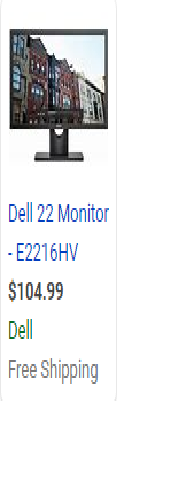
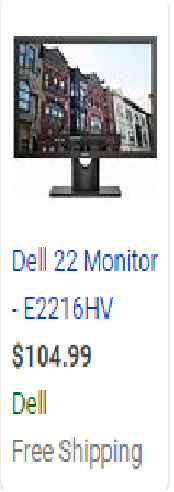
--10-24-19-- After school update 1.0

Changed region(s): [[0.0287, 0.061, 0.9195, 0.4573], [0.0287, 0.4878, 0.9195, 0.8537], [0.0575, 0.8841, 0.8333, 0.9756]]

diff --git a/lcd.html b/lcd.html
@@ -10,25 +10,31 @@
 
 <body>
   <div id="container">
-    <div id="header"><img src="images/pcmonitor.jpg" height="250px" width="1000px"/></div>
+    <header class="pageTop">
+      <h1>LCD Monitors</h1>
+      <p> LCD Monitor Information</p>
+    </header>
     <div class="navbar">
       <a href="index.html">Home</a>
-      <a href="#">Dead link</a>
       <div class="dropdown">
         <button class="dropbutton">Different Monitors
           <i class="fa fa-caret-down"></i>
         </button>
         <div class="dropdowncontent">
-          <a href="Article1.html">Article 1</a>
-          <a href="#">Aritcle 2</a>
-          <a href="#">Article 3</a>
+          <a href="crt.html">CRT Monitors</a>
+          <a href="lcd.html">LCD Monitors</a>
+          <a href="led.html">LED Monitors</a>
         </div>
       </div>
+      <a href="#">Fill link</a>
+      <a href="#">Fill link</a>
+      <a href="#">Fill link</a>
+      <a href="#">Fill link</a>
     </div>
 
-    <div id="sidebar"></div>
-    <div id="content">Lorem ipsum dolor sit amet consectetur adipiscing elit ullamcorper, platea posuere sollicitudin parturient lectus quam habitasse orci, justo ornare odio convallis gravida sagittis lacus. Class habitasse urna mauris in sollicitudin risus interdum mattis dignissim taciti, mus velit fusce aliquam elementum dictum ut mi eleifend, condimentum cursus facilisis suspendisse quis pellentesque felis scelerisque himenaeos. Aptent posuere sem condimentum aenean purus nec ad malesuada, platea volutpat ligula tempor sociosqu cursus sagittis quisque metus, et fermentum hendrerit magnis auctor urna phasellus.</div>
-    <div id="adbox1">There is a generic advertisement here</div>
+    <div id="sidebar"><img src="images\lcdexample.gif" height="300px "width="255px"><img src="images\lcdexample2.jpg" height="200px "width="265px"></div>
+    <div id="content">A LCD, or Lquid Crystal Display sounds pretty cool and is pretty cool, probaly has the best picture of the three. There is a picture example on the left to see how it is put together. These types of monitors can get up to 4k video/picture quality, which, in my opinion, look better than life, and is used in most tech we have today such as, smartphones, tvs, and laptops.The LCD is made of two sheets of a flexible polarizing material and a layer of liquid crystal solution between the two.An LCD does not refresh like a CRT monitor. Instead, a picture is created by sending electricity through liquid crystals which untwist at the rate of electricity applied, creating 64 shades.</div>
+    <div id="adbox1"><img src="images\Monitor ad.PNG"></div>
   </div>
 
 </body>

diff --git a/crt.html b/crt.html
@@ -10,25 +10,31 @@
 
 <body>
   <div id="container">
-    <div id="header"><img src="images/pcmonitor.jpg" height="250px" width="1000px"/></div>
+    <header class="pageTop">
+      <h1>CRT Monitors</h1>
+      <p> CRT Monitor Information</p>
+    </header>
     <div class="navbar">
       <a href="index.html">Home</a>
-      <a href="#">Dead link</a>
       <div class="dropdown">
         <button class="dropbutton">Different Monitors
           <i class="fa fa-caret-down"></i>
         </button>
         <div class="dropdowncontent">
-          <a href="#">Article 1</a>
-          <a href="Article2.html">Aritcle 2</a>
-          <a href="#">Article 3</a>
+          <a href="crt.html">CRT Monitors</a>
+          <a href="lcd.html">LCD Monitors</a>
+          <a href="led.html">LED Monitors</a>
         </div>
       </div>
+      <a href="#">Fill link</a>
+      <a href="#">Fill link</a>
+      <a href="#">Fill link</a>
+      <a href="#">Fill link</a>
     </div>
 
-    <div id="sidebar"></div>
-    <div id="content">Lorem ipsum dolor sit amet consectetur adipiscing elit ullamcorper, platea posuere sollicitudin parturient lectus quam habitasse orci, justo ornare odio convallis gravida sagittis lacus. Class habitasse urna mauris in sollicitudin risus interdum mattis dignissim taciti, mus velit fusce aliquam elementum dictum ut mi eleifend, condimentum cursus facilisis suspendisse quis pellentesque felis scelerisque himenaeos. Aptent posuere sem condimentum aenean purus nec ad malesuada, platea volutpat ligula tempor sociosqu cursus sagittis quisque metus, et fermentum hendrerit magnis auctor urna phasellus.</div>
-    <div id="adbox1">There is a generic advertisement here</div>
+    <div id="sidebar"><img src="images\CRTimage.jpg" height="250px"width="252px">This is a Cathode Ray Tube Monitor<img src="images\crtexample.jpg" height="250px"width="252px"> The example </div>
+    <div id="content">Now you're probably looking at the image on the left and thinking "that's definitly what I want." First what does "CRT" stand for? Cathode Ray Tube. What does that even mean, how does it work? Well its the electron beams in a monitor that move across your screen either interlaced or non-interlaced, hitting phosphor dots on the inside glass tube. The picture is an example of the inside of a computer monitor that shows the CRT connected to the screen. these were some the first computer screens and television screens when they first came to public, but around 2015 most producers switched to lcd or led flat screen. </div>
+    <div id="adbox1"><img src="images\Monitor ad.PNG"></div>
   </div>
 
 </body>

diff --git a/led.html b/led.html
@@ -4,31 +4,37 @@
 
 <head>
   <meta charset="utf-8">
-  <title>Led Monitors</title>
+  <title>LED Monitors</title>
   <link rel="stylesheet" type="text/css" href="drawio.css">
 </head>
 
 <body>
   <div id="container">
-    <div id="header"><img src="images/pcmonitor.jpg" height="250px" width="1000px"/></div>
+    <header class="pageTop">
+      <h1>LED Monitors</h1>
+      <p> LED Monitor Information</p>
+    </header>
     <div class="navbar">
       <a href="index.html">Home</a>
-      <a href="#">Dead link</a>
       <div class="dropdown">
         <button class="dropbutton">Different Monitors
           <i class="fa fa-caret-down"></i>
         </button>
         <div class="dropdowncontent">
-          <a href="#">Article 1</a>
-          <a href="Article2.html">Aritcle 2</a>
-          <a href="#">Article 3</a>
+          <a href="crt.html">CRT Monitors</a>
+          <a href="lcd.html">LCD Monitors</a>
+          <a href="led.html">LED Monitors</a>
         </div>
       </div>
+      <a href="#">Fill link</a>
+      <a href="#">Fill link</a>
+      <a href="#">Fill link</a>
+      <a href="#">Fill link</a>
     </div>
 
     <div id="sidebar"></div>
-    <div id="content">Lorem ipsum dolor sit amet consectetur adipiscing elit ullamcorper, platea posuere sollicitudin parturient lectus quam habitasse orci, justo ornare odio convallis gravida sagittis lacus. Class habitasse urna mauris in sollicitudin risus interdum mattis dignissim taciti, mus velit fusce aliquam elementum dictum ut mi eleifend, condimentum cursus facilisis suspendisse quis pellentesque felis scelerisque himenaeos. Aptent posuere sem condimentum aenean purus nec ad malesuada, platea volutpat ligula tempor sociosqu cursus sagittis quisque metus, et fermentum hendrerit magnis auctor urna phasellus.</div>
-    <div id="adbox1">There is a generic advertisement here</div>
+    <div id="content"></div>
+    <div id="adbox1"><img src="images\Monitor ad.PNG"></div>
   </div>
 
 </body>

diff --git a/index.html b/index.html
@@ -12,11 +12,10 @@
   <div id="container">
     <header class="pageTop">
       <h1>Pc Monitors</h1>
-      <p>This should have stuff, alot of stuff</p>
+      <p>Monitor Information</p>
     </header>
     <div class="navbar">
       <a href="index.html">Home</a>
-      <a href="#">Dead link</a>
       <div class="dropdown">
         <button class="dropbutton">Different Monitors
           <i class="fa fa-caret-down"></i>
@@ -27,11 +26,15 @@
           <a href="led.html">LED Monitors</a>
         </div>
       </div>
+      <a href="#">Fill link</a>
+      <a href="#">Fill link</a>
+      <a href="#">Fill link</a>
+      <a href="#">Fill link</a>
     </div>
 
-    <div id="sidebar">If you're on this site, your probaly looking to find out what kind of monitor your in too, but first what are you gonna do with it? Lets go over the different types of monitors, don't worry there are only three main types.</div>
-    <div id="content"></div>
-    <div id="adbox1"><img src="images\Monitor ad.PNG" length="150px"></div>
+    <div id="sidebar">If you're on this site, you're probaly looking to find out what kind of monitor you want, but first what are you gonna do with it? Lets go over the different types of monitors, don't worry there are only three main types.</div>
+    <div id="content">Above you will find links to differnt pages, explaining the differences of the monitors and there common uses.</div>
+    <div id="adbox1"><a href="https://www.dell.com/en-us/work/shop/dell-22monitor-e2216hv/apd/210-agnc/monitors-monitor-accessories"><img src="images\Monitor ad.PNG"></div>
   </div>
 
 </body>

diff --git a/drawio.css b/drawio.css
@@ -20,20 +20,21 @@ body {
 .pageTop h1 {
   text-align: center;
   padding-top: 50px;
-  color: red;
+  color: #A56BC9;
   font-size: 60.5;
 }
 
 .pageTop p {
   text-align: center;
   font-size: 40px;
-  color: purple;
+  color: white;
 }
 
-.navbar{
+.navbar {
   overflow: hidden;
-  background-color: #333;
+  background-color:#6A6782;
   font-family: Arial;
+  padding-left: 10px;
 }
 
 .navbar a {
@@ -62,7 +63,7 @@ body {
 }
 
 .navbar a:hover, .dropdown:hover .dropbutton {
-  background-color: #ff3333;
+  background-color: #6D4785;
 }
 
 .dropdowncontent {
@@ -94,29 +95,33 @@ body {
 #sidebar {
   float: left;
   font-family: sans-serif;
+  font-size: 125%;
+  text-align: center;
   color: white;
-  padding: 0;
-  width: 21%;
-  height: 400px;
-  background: Black;
-  padding: 2%;
+  width: 23%;
+  height: 600px;
+  background: #7A7695;
+  padding-top:10px;
 }
 
 #content {
   width: 46%;
   float: left;
   padding: 2%;
+  color: white;
+  font-family:monospace;
+  font-size:175%;
 }
 
 #adbox1 {
   float: left;
   width: 25%;
   height: 450px;
-
+  
   /*
   border: 2.5px solid black;
   padding: 50px;
   margin-top:50px;
-  margin-right: 50px;
+  margin-right: 0px;
   */
 }
